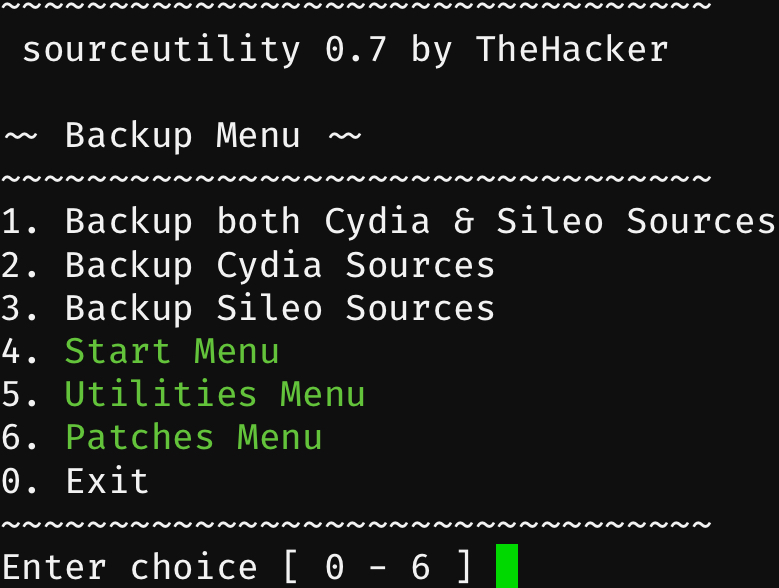
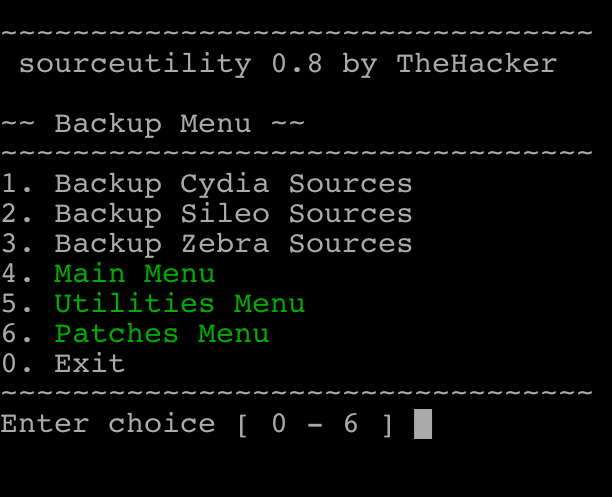
v0.8 sourceutility

diff --git a/hacked-repo/depic/xyz.skylarmccauley.sourceutility/index.html b/hacked-repo/depic/xyz.skylarmccauley.sourceutility/index.html
@@ -33,15 +33,14 @@
         <p>Backups now include a restore script packaged in. This means you can now share backups with other people. Just run the restore.sh script to restore your sources. </p>
       </li>
       <li>
-          <p style="color: red;">Support for unc0ver (by pwn) may be limited in this release as accomodations were made for unc0ver dark. If you have any issues please, report them.</p>
+          <p style="color: red;">Do not try restoring sources for Cydia if your are using Electra!</p>
       </li>
     </ul>
 
-    <h2 id="screenshot">Simple Select Menu (Screenshots from 0.7.0)</h2>
+    <h2 id="screenshot">Simple Select Menu</h2>
     <ul>
-      <img src="screenshots/menu.jpg">
+      <img src="screenshots/main_menu.jpg">
       <img src="screenshots/backup_menu.jpg">
-      <img src="screenshots/restore_menu.jpg">
       <img src="screenshots/patches_menu.jpg">
     </ul>
     <ul>
@@ -62,9 +61,6 @@
         <p>findutils</p>
       </li>
       <li>
-        <p>firmware (>= 11.0)</p>
-      </li>
-      <li>
         <p>curl</p>
       </li>
       <li>
@@ -75,6 +71,9 @@
         </li>
         <li>
           <p>gawk</p>
+        </li>
+        <li>
+          <p>zip, unzip</p>
         </li>
     </ul>
     <h2 id="conflicts">Conflicts</h2>
@@ -100,51 +99,37 @@
     </ul>
     <h2 id="in-this-version">In this version</h2>
     <ul> 
-        <h2>April 16, 2019</h2>
-        <li>
-          <p>0.7.3</p><br>
-          <p>- Added option to download Sileo from Diatrus/Misceo repo (for unc0ver dark users)</p>
-        </li>
-        <h2>April 14, 2019</h2>
-        <li>
-          <p>0.7.2</p><br>
-          <p>- Added support for Zebra package manager</p>
-          <p>- Fixed some bugs</p>
-          <p>- Removed some options from menus as they weren't needed</p>
-        </li>
-        <h2>April 12, 2019</h2>
-        <li>
-          <p>0.7.1</p><br>
-          <p>- Added support for unc0ver dark</p>
-          <p>- Removed support for Sileo for unc0ver by Diatrus (unc0ver dark is better)</p>
-          <p>- General improvements to overall experience</p>
-        </li>
-        <li>
-        <p>0.7</p><br>
-        <p>- Took a break</p>
-        <p>- Backups now include a restore script at ./backups/restore.sh </p>
-        <p>- Sync Menu added</p>
-        <p>- Basic supprot for syncing sources added. Don't try syncing please :)</p>
-        <p>- Added more compatibility with Electra jailbreak (hasn't been tested yet)</p>
-        <p>- Added 'Reinstall Sileo' option in Patches Menu</p>
-        <p>- General improvements to existing code</p>
-        <p>- Added gawk and grep as a dependency</p>
-        <p>- sourceutility-legacy removed</p>
-        </li>
+      <li>
+        <h2>April 28, 2019</h2>
+        <p>0.8</p>
+        <p>- Restore scripts refined for compatibility</p>
+        <p>- Electra detection added for compatibility</p>
+        <p>- Refined downloading</p>
+        <p>- Restore scripts now bundled</p>
+        <p>- Added option to update bundled resources</p>
+      </li>
+        
     </ul>
     <h2 id="other-versions">Previous Releases</h2>
     <ul>
+      <li>
+        <h2>April 12 - 16, 2019</h2>
+        <p>0.7</p><br>
+        <p>- Added support for Zebra</p>
+        <p>- Added support for unc0ver dark and Misceo</p>
+        <p>- General improvements to overall experience</p>
+        <p>- Took a break</p>
+        <p>- Backups now include a restore script downloaded from GitHub</p>
+        <p>- Added gawk and grep as a dependency</p>
+        <p>- sourceutility-legacy removed</p>
+        </li>
         <h2>April 7, 2019</h2>
         <li>
         <p>0.6</p><br>
         <p>- Improved compatibility with different types of jailbreaks</p>
-        <p>- Restore Menu added</p>
-        <p>- Backup Menu added</p>
-        <p>- Backup Delete Menu added</p>
-        <p>- Can now choose whether to backup Cydia, Sileo, or both</p>
-        <p>- Can now choose whether to restore Cydia backups, Sileo backups, or both</p>
+        <p>- New menus added</p>
+        <p>- Can now choose whether to backup/restore Cydia backups, Sileo backups, or both</p>
         <p>- Each backup option generates a different file (they cannot be converted)</p>
-        <p>- Backup Delete Menu gives options to determine which backups to delete</p>
         <p>- Added option to patch Sileo Sources</p>
         <p>- Added rsync as a dependency </p>
         <p>- Last update to include sourceutility-legacy</p>
@@ -156,8 +141,7 @@
         <p>- After restoring a backup, the user will be prompted to reinstall Cydia</p>
         <p>- After reinstalling Cydia, the user will be prompted to run Diatrus's Cydia Patch from installsileo (installsileo not included)</p>
         <p>- Now depends on curl for reinstalling Cydia (downloads from apt.bingner.com)</p>
-        <p>- Removed Kill Menu</p>
-        <p>- Added Patches Menu</p>
+        <p>- Added new menus</p>
         <p>- Patches Menu includes options such as Reinstalling Cydia, Killing Sileo, and running the Cydia Patch</p>
         <p>- Changed firmware dependency to iOS 11 and above (this may be changed in a future update) </p>
         </li>
